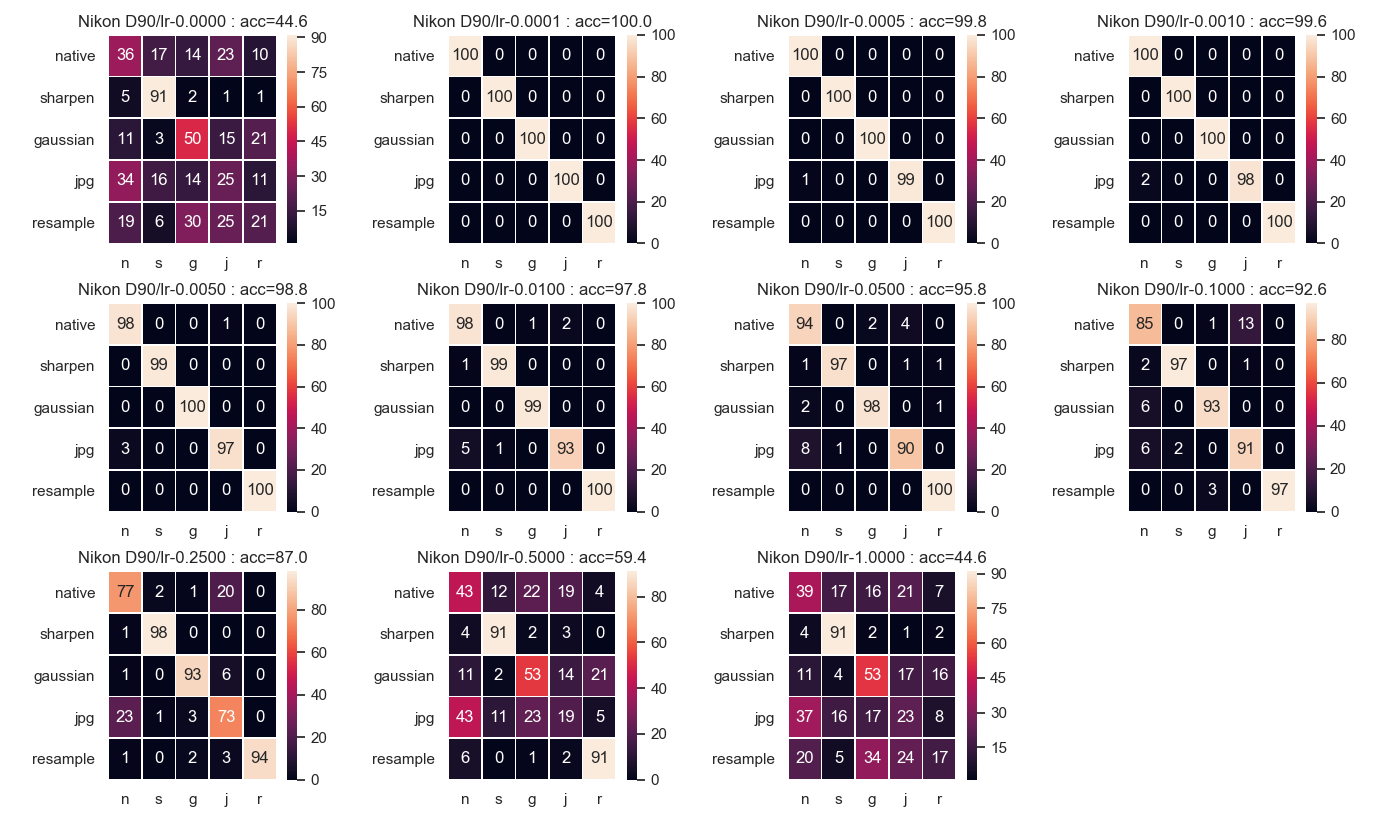
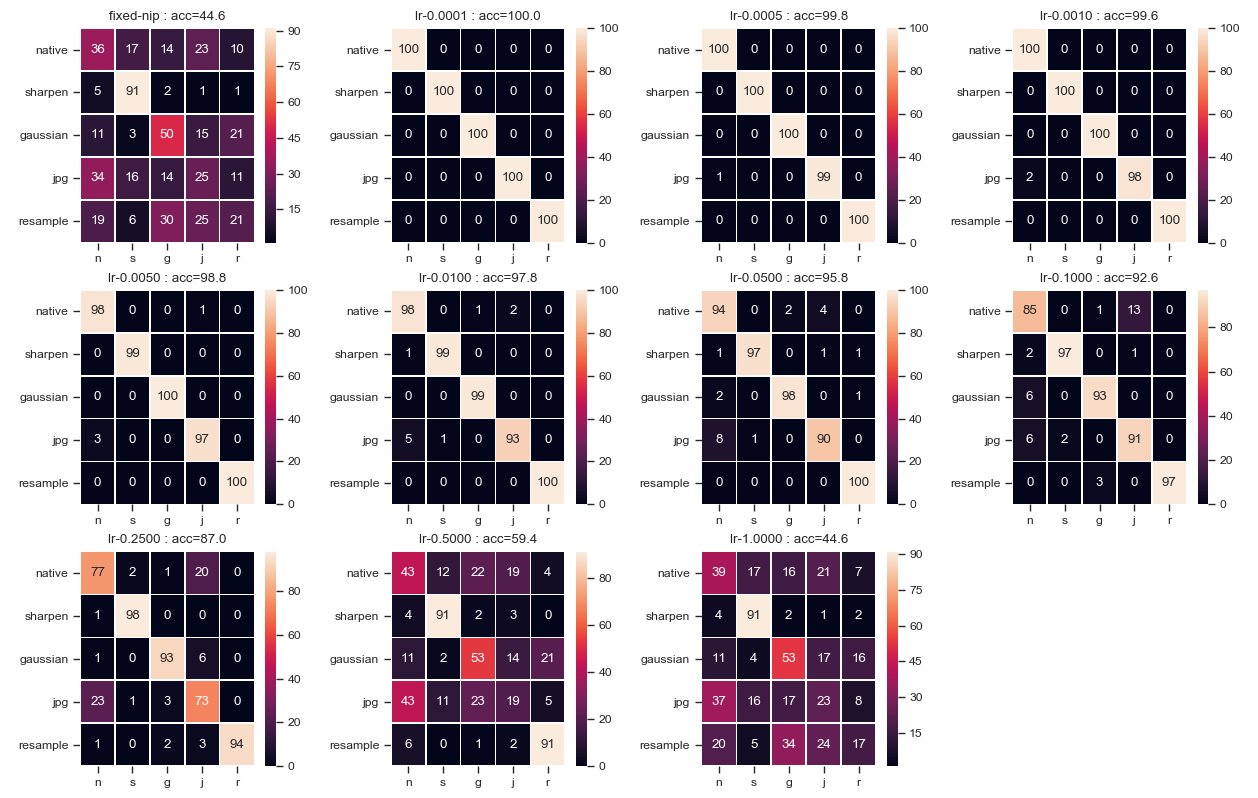
Bugfixes and updated example results

Changed region(s): [[0.0, 0.0, 0.9921, 0.9925]]

diff --git a/results.py b/results.py
@@ -24,6 +24,10 @@ def display_results(args):
     sns.set('paper', font_scale=1, style="ticks")
     plot = coreutils.match_option(args.plot, supported_plots)
 
+    if not os.path.isdir(args.dir):
+        raise FileNotFoundError('Directory {} not found!'.format(args.dir))
+
+    print('Results from: {}'.format(args.dir))
     print('Matched plotting command: {}'.format(plot))
 
     postfix = [
@@ -44,6 +48,11 @@ def display_results(args):
     if plot == 'scatter-psnr' or plot == 'scatter-ssim':
 
         df = results_data.manipulation_metrics(args.nips, args.cameras, root_dir=args.dir)
+
+        if len(df) == 0:
+            print('ERROR No results found!')
+            sys.exit(2)
+
         print(df)
         g = sns.relplot(x=plot.split('-')[-1], y='accuracy', hue='ln', col='camera', row='nip', data=df,
                     palette=sns.color_palette("Set2", len(df['ln'].unique())))
@@ -225,7 +234,7 @@ if __name__ == "__main__":
     parser.add_argument('--run', dest='run', action='store', default=None, type=int,
                         help='select experiment instance number')
     parser.add_argument('--dir', dest='dir', action='store',
-                        default=os.path.join(results_data.ROOT_DIRNAME, 'cvpr2019'),
+                        default=os.path.join(results_data.ROOT_DIRNAME),
                         help='Root directory with the results')
     parser.add_argument('--df', dest='df', action='store',
                         default=None,

diff --git a/helpers/results_data.py b/helpers/results_data.py
@@ -13,13 +13,14 @@ ROOT_DIRNAME = './data/m/5-raw/cvpr2019'
 
 def autodetect_cameras(dirname):
     counter = 5
-    while counter > 0 and not os.path.exists(os.path.join(dirname, 'nip_model_snapshots')):
+    while counter > 0 and not os.path.exists(os.path.join(dirname, 'models', 'nip')):
         dirname = os.path.split(dirname)[0]
+        counter -= 1
 
     if counter == 0:
         raise ValueError('The {} directory does not seem to be a valid results directory'.format(dirname))
 
-    return coreutils.listdir(os.path.join(dirname, 'nip_model_snapshots'), '.*', dirs_only=True)
+    return coreutils.listdir(os.path.join(dirname, 'models', 'nip'), '.*', dirs_only=True)
 
 
 def manipulation_metrics(nip_models, cameras, root_dir=ROOT_DIRNAME):
